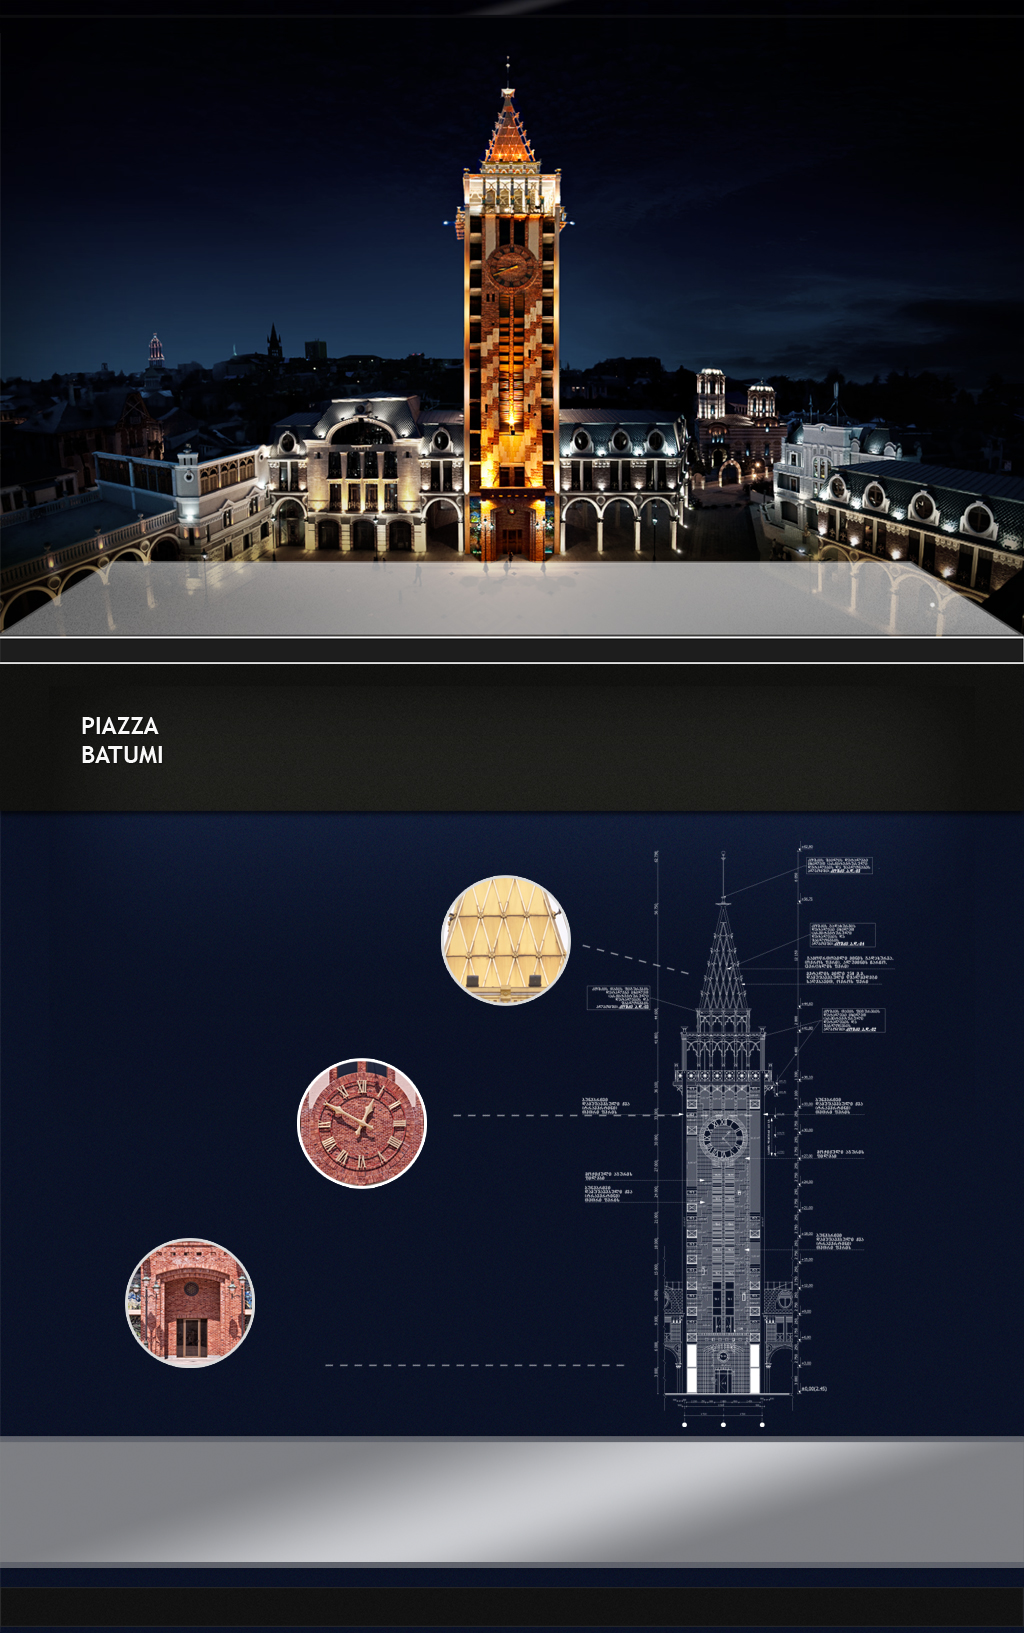
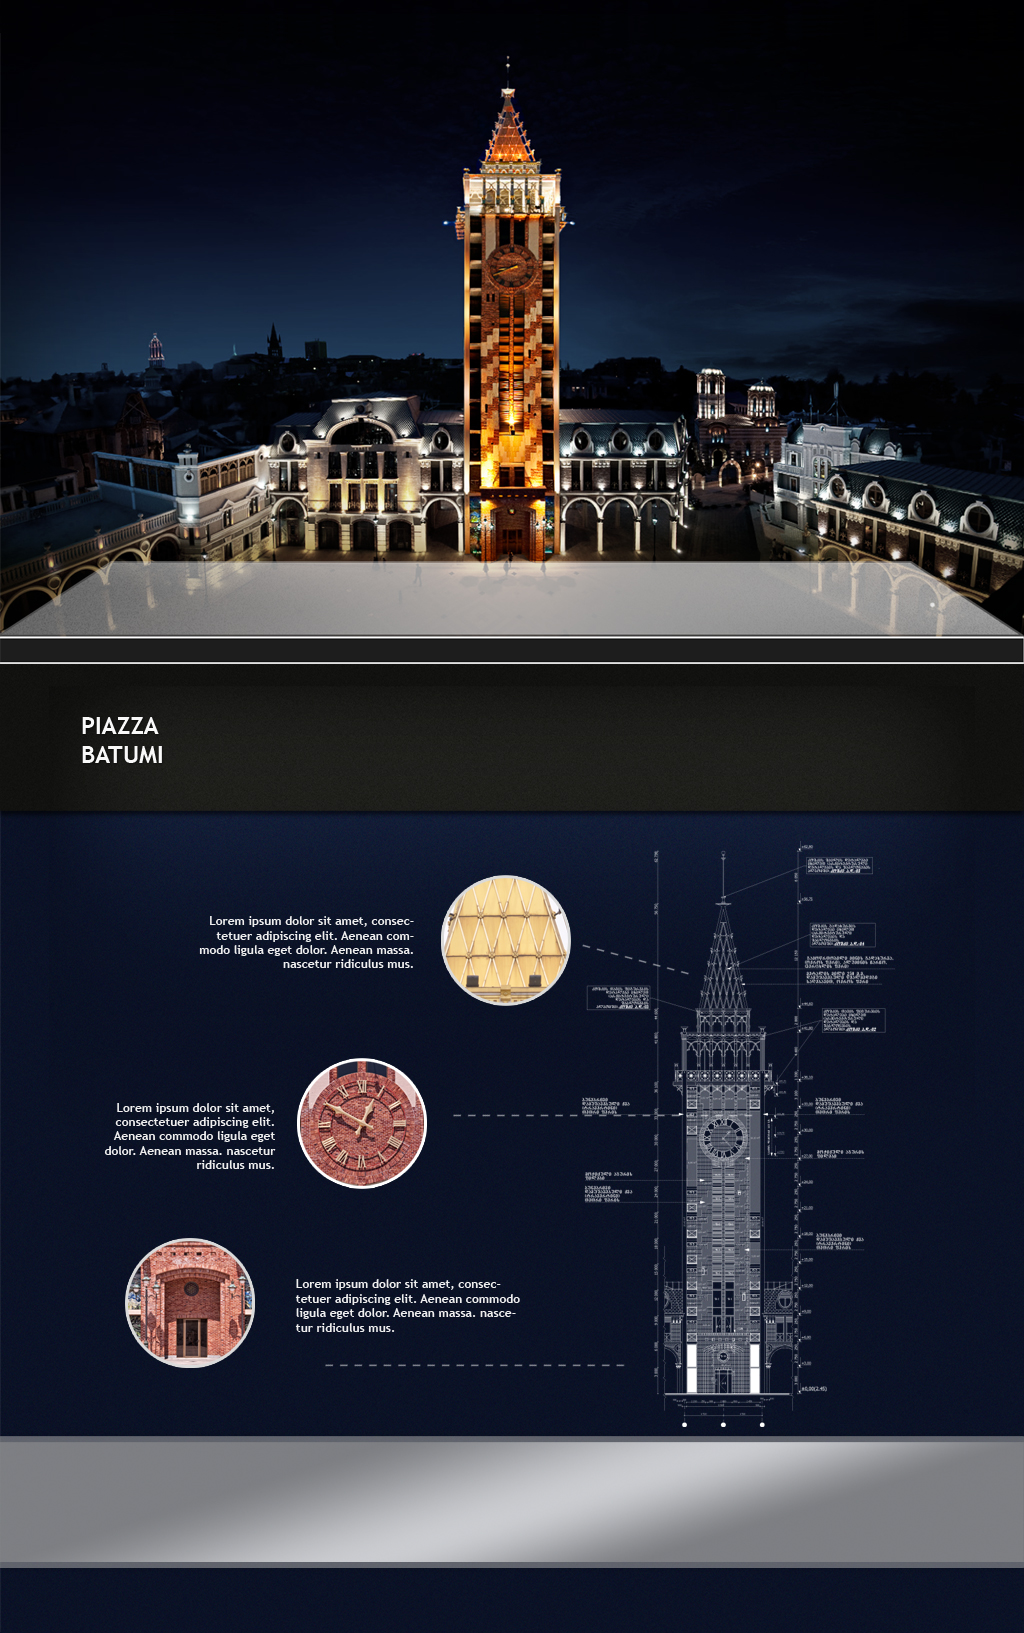
css adjustments on all pages

diff --git a/css/gph.css b/css/gph.css
@@ -1,3 +1,4 @@
+html{background: #000;}
 body{background: url(../images/background_gph.jpg) no-repeat 0 0 scroll;
 	max-height: 1632px;
     overflow-x: hidden;
@@ -58,19 +59,18 @@ ul#menu li {
 
 /* */
 #details {
+    height: 920px;
     position: relative;
 }
 #building_details {
-    height: 761px;
+    padding-top: 51px;
 }
 
 #text_container {
     font-size: 6pt;
     margin-left: auto;
     margin-right: auto;
-    position: relative;
     text-align: left;
-    top: 590px;
     width: 60%;
 }
 
@@ -78,10 +78,9 @@ ul#menu li {
 
 #top_text {
     color: black;
-    height: 135px;
+    height: 145px;
     margin-left: auto;
     margin-right: auto;
-    padding: 30px 0 30px 30px;
 }
 #left_corner {
     float: left;
@@ -90,17 +89,28 @@ ul#menu li {
 	text-indent: -9999px;
 }
 #description {
-	    background: none repeat scroll 0 0 transparent;
-	    color: #FFFFFF;
-	    display: table;
-	    float: right;
-	    font-size: 7pt;
-	    margin-bottom: 30px;
-	    position: relative;
-	    right: 70px;
-	    text-align: left;
-	    top: 30px;
-	    width: 40%;
+    background: none repeat scroll 0 0 transparent;
+    color: #FFFFFF;
+    display: table;
+    float: right;
+    font-size: 7pt;
+    margin-bottom: 30px;
+    position: relative;
+    right: 70px;
+    text-align: left;
+    top: 55px;
+    width: 40%;
+}
+div#building_text {
+    color: #FFFFFF;
+    font-size: 9pt;
+    height: 98px;
+    margin-left: auto;
+    margin-right: auto;
+    position: relative;
+    text-align: left;
+    text-shadow: 1px 1px 1px #000000;
+    width: 540px;
 }
 div#text_container p{
 
@@ -122,8 +132,8 @@ div#text_container p{
 
 
 /* footer */
-
 #footer_gph {
+    color: #FFFFFF;
     height: 45px;
-    color: #fff;
+    margin-top: -50px;
 }

diff --git a/css/style.css b/css/style.css
@@ -523,19 +523,20 @@ a.details:hover {
     background: url("../images/sprite_mesa.png") no-repeat scroll -138px -4px transparent;
 }
 a.up {
-    background: url("../images/arrows.png") no-repeat scroll -122px 0 transparent;
+    background: url("../images/sprite_mesa.png") no-repeat scroll -871px 0 transparent;
     color: transparent;
+    float: left;
     height: 62px;
-    left: -15px;
+    left: 10px;
     padding: 92px 10px 10px 0;
     position: relative;
     text-indent: -9999px;
-    top: 65px;
+    top: 0;
     width: 41px;
     z-index: 9999;
 }
 a.up:hover {
-    background: url("../images/arrows.png") no-repeat scroll -150px 0 transparent;
+    background: url("../images/sprite_mesa.png") no-repeat scroll -1004px 0 transparent;
 }
 a.right_up {
     background: url("../images/arrows.png") no-repeat scroll -176px 0 transparent;
@@ -612,7 +613,24 @@ a.dock-item2 {
 	width: 100%; 
 }
 
-
+#coda-slider-2, #coda-slider-2 .panel {
+    width: 1008px;
+}
+#coda-slider-2 .coda-nav-right a {
+    background: none;
+    position: relative;
+    text-indent: -9999px;
+    top: 130px;
+}
+#container_details .coda-nav-right a{display: none;} 
+a.next_button {
+    background: url("../images/sprite_mesa.png") repeat scroll -1160px 10px transparent;
+    color: transparent;
+    float: right;
+    padding: 33px 20px;
+    position: relative;
+    top: -65px;
+}
 
 /* FOOTER */
 

diff --git a/css/arci.css b/css/arci.css
@@ -62,8 +62,8 @@ ul#menu li {
     position: relative;
 }
 #building_details {
-    height: 761px;
-}
+ height: 684px;
+ }
 
 #text_container {
     font-size: 6pt;
@@ -71,15 +71,27 @@ ul#menu li {
     margin-right: auto;
     position: relative;
     text-align: left;
-    top: 590px;
+    top: 5px;
     width: 60%;
+}
+div#building_text {
+    color: #FFFFFF;
+    font-size: 9pt;
+    margin-bottom: -80px;
+    margin-left: auto;
+    margin-right: auto;
+    position: relative;
+    text-align: left;
+    text-shadow: 1px 1px 1px #000000;
+    top: -65px;
+    width: 550px;
 }
 
 /*top text - left and description*/
 
 #top_text {
     color: black;
-    height: 135px;
+    height: 184px;
     margin-left: auto;
     margin-right: auto;
     padding: 30px 0 30px 30px;
@@ -113,6 +125,14 @@ div#text_container p{
 
 
 }
+a.next_button {
+    background: url("../images/sprite_mesa.png") repeat scroll -1160px 10px transparent;
+    color: transparent;
+    float: right;
+    padding: 33px 20px;
+    position: relative;
+    top: -50px;
+}
 
 
 #social a, #social_transparent a {
@@ -121,12 +141,15 @@ div#text_container p{
     position: relative;
     width: 22px;
 }
-
+.panel-wrapper-1 {
+    padding: 0;
+    position: relative;
+    top: 37px;
+}
 
 /* footer */
 
 #footer_airport {
-	padding-top: 157px;
     height: 45px;
     color: #fff;
 }

diff --git a/css/mia.css b/css/mia.css
@@ -1,6 +1,6 @@
 body {
     background: url("../images/background_miaAgency.jpg") no-repeat scroll 0 0 transparent;
-    max-height: 1593px;
+    min-height: 1593px;
     overflow-x: hidden;
 }
 h1 {
@@ -83,7 +83,7 @@ ul#menu li {
 
 #top_text {
     color: black;
-    height: 135px;
+    height: 105px;
     margin-bottom: 66px;
     margin-left: auto;
     margin-right: auto;
@@ -121,19 +121,40 @@ div#text_container p{
 
 
 }
-
-
+div#building_text {
+    color: #FFFFFF;
+    font-size: 9pt;
+    left: -81px;
+    margin-bottom: -60px;
+    margin-left: auto;
+    position: relative;
+    text-align: left;
+    text-shadow: 1px 1px 1px #000000;
+    top: -43px;
+    width: 550px;
+}
 #social a, #social_transparent a {
     height: 22px;
     left: 15px;
     position: relative;
     width: 22px;
 }
+a.next_button {
+    background: url("../images/sprite_mesa.png") repeat scroll -1160px 10px transparent;
+    color: transparent;
+    float: right;
+    left: 42px;
+    padding: 33px 20px;
+    position: relative;
+    top: -255px;
+}
 
-#coda-slider-2, #coda-slider-2 .panel { width: 740px; }
 /* footer */
 
 #footer_airport {
+    color: #FFFFFF;
     height: 45px;
-    color: #fff;
+    padding-top: 7px;
+    position: relative;
+    top: 29px;
 }

diff --git a/mcdonalds.html b/mcdonalds.html
@@ -119,6 +119,7 @@
 	    <div id="details">
 	    	<div id="container_details">
 	    		<div id="top_text">
+	    			<a class="up" href="#">UP</a>
 	    			<div id="left_corner">
 	    				<h1>Mc Donalds</h1>
 	    			</div>
@@ -129,6 +130,11 @@
 	    			</div>
 	    		</div>
 	    		<div id="building_details">
+	    			<div id="building_text">
+						<p>Short info about the structure,Short info about the structure Short info about the structure Short info about the structure Short info about the structure Short info about the structure Short info about the structure Short info about the structure Short info about the structure Short info about the structure v Short info about the structure Short info about the structure Short info about the structure Short info about the structure Short info about the structure v Short info about the structure Short info about the structure Short info about the structure </p>	    			
+
+	    			</div>
+	    		
 					<!-- navigation -->
 					<div class="coda-slider-wrapper">
 					<div id="coda-nav-right-2" class="coda-nav-right"><a href="#" title="Slide right">&#187;</a></div>

diff --git a/css/batumi.css b/css/batumi.css
@@ -1,6 +1,6 @@
 body {
     background: url("../images/background_batumi.jpg") no-repeat scroll 0 0 transparent;
-    max-height: 1632px;
+    min-height: 1593px;
     overflow-x: hidden;
 }
 h1 {
@@ -75,15 +75,14 @@ ul#menu li {
     margin-right: auto;
     position: relative;
     text-align: left;
-    top: 0;
+    top: 10px;
     width: 60%;
 }
-
 /*top text - left and description*/
 
 #top_text {
     color: black;
-    height: 135px;
+    height: 110px;
     margin-bottom: 66px;
     margin-left: auto;
     margin-right: auto;
@@ -130,10 +129,22 @@ div#text_container p{
     width: 22px;
 }
 
-#coda-slider-2, #coda-slider-2 .panel { width: 740px; }
+a.next_button {
+    background: url("../images/sprite_mesa.png") repeat scroll -1160px 10px transparent;
+    color: transparent;
+    float: right;
+    left: 42px;
+    padding: 33px 20px;
+    position: relative;
+    top: -255px;
+}
+
 /* footer */
 
 #footer_airport {
-    height: 45px;
-    color: #fff;
+    bottom: 0;
+    color: #FFFFFF;
+    height: 9px;
+    position: relative;
+    top: 30px;
 }

diff --git a/magnolia.html b/magnolia.html
@@ -129,6 +129,10 @@
 	    			</div>
 	    		</div>
 	    		<div id="building_details">
+	    			<div id="building_text">
+	    				Short info about the structure,Short info about the structure Short info about the structure Short info about the structure Short info about the structure Short info about the structure Short info about the structure Short info about the structure Short info about the structure Short info about the structure v Short info about the structure Short info about the structure Short info about the structure Short info about the structure Short info about the structure v Short info about the structure Short info about the structure Short info about the structure 
+	    			
+	    			</div>
 					<!-- navigation -->
 					<div class="coda-slider-wrapper">
 					<div id="coda-nav-right-2" class="coda-nav-right"><a href="#" title="Slide right">&#187;</a></div>
